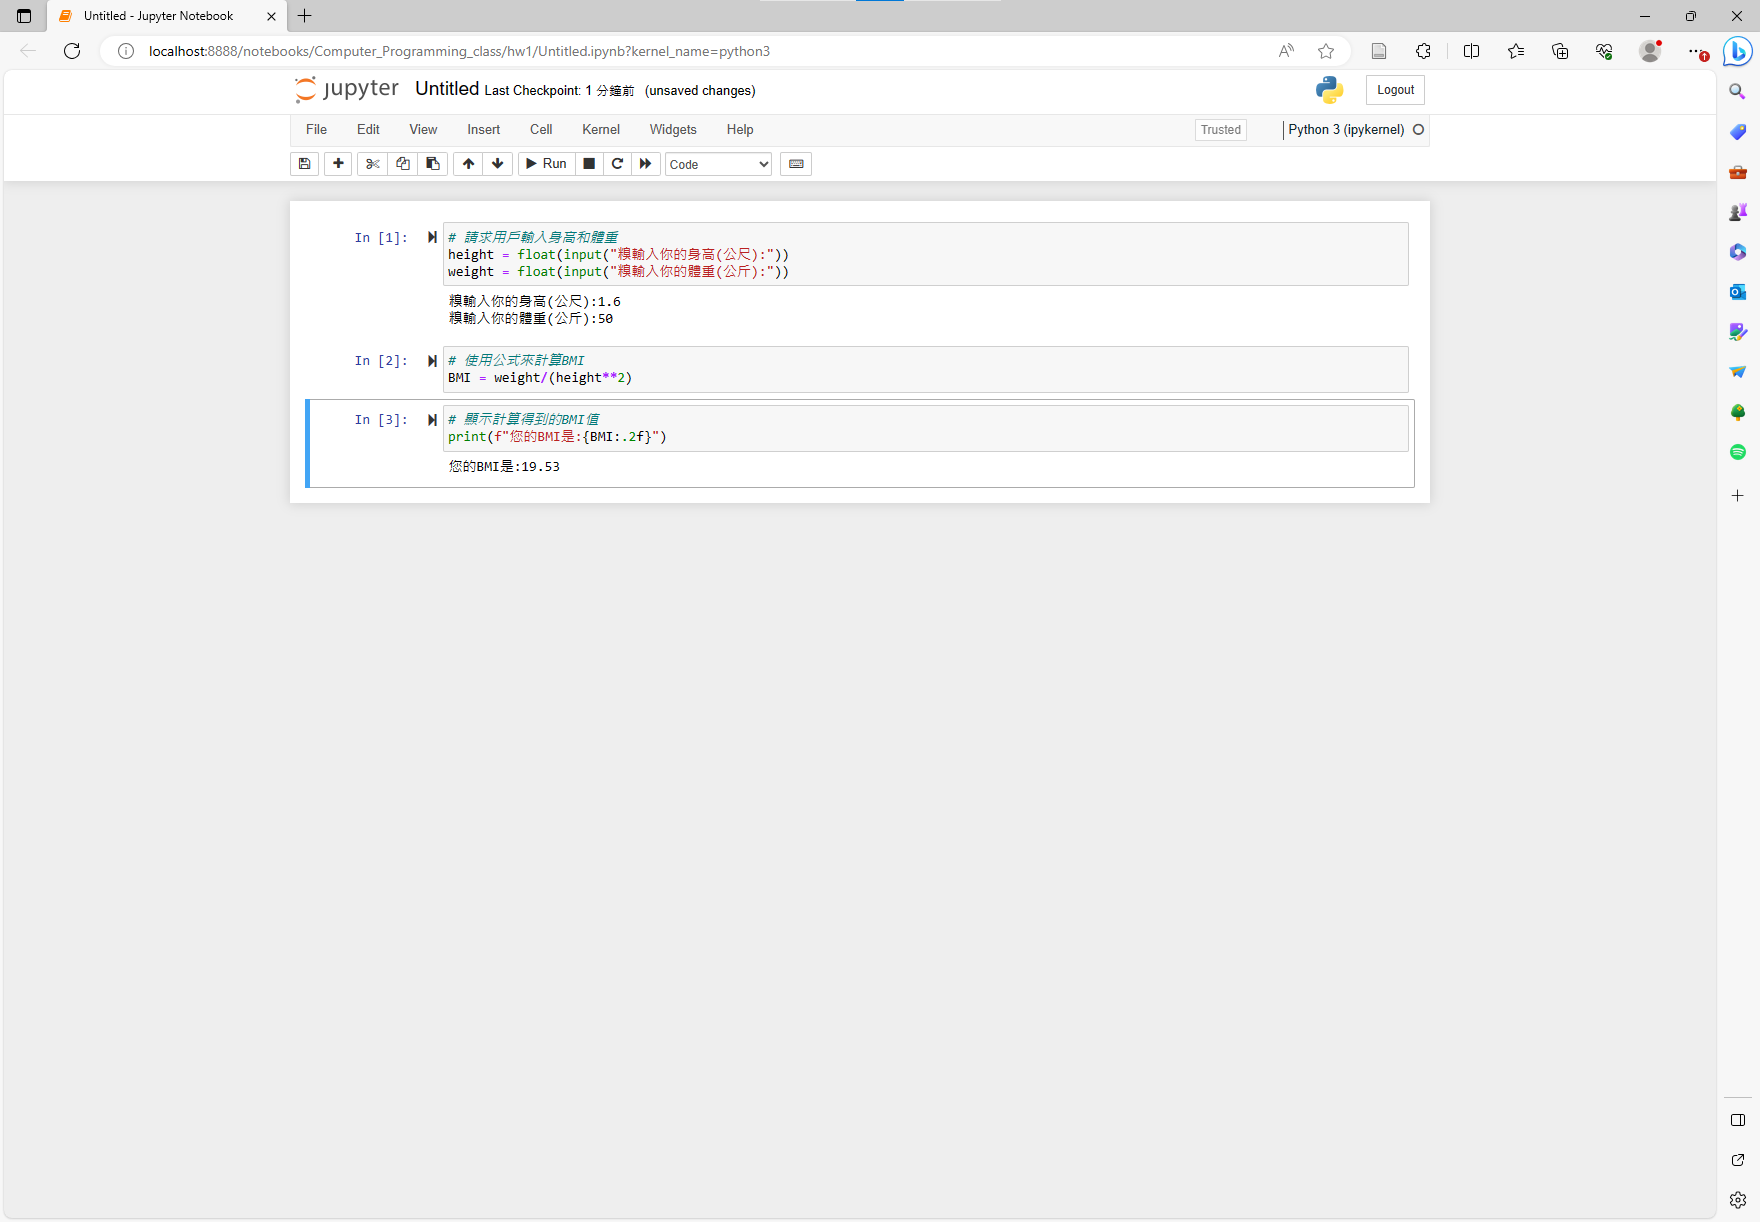
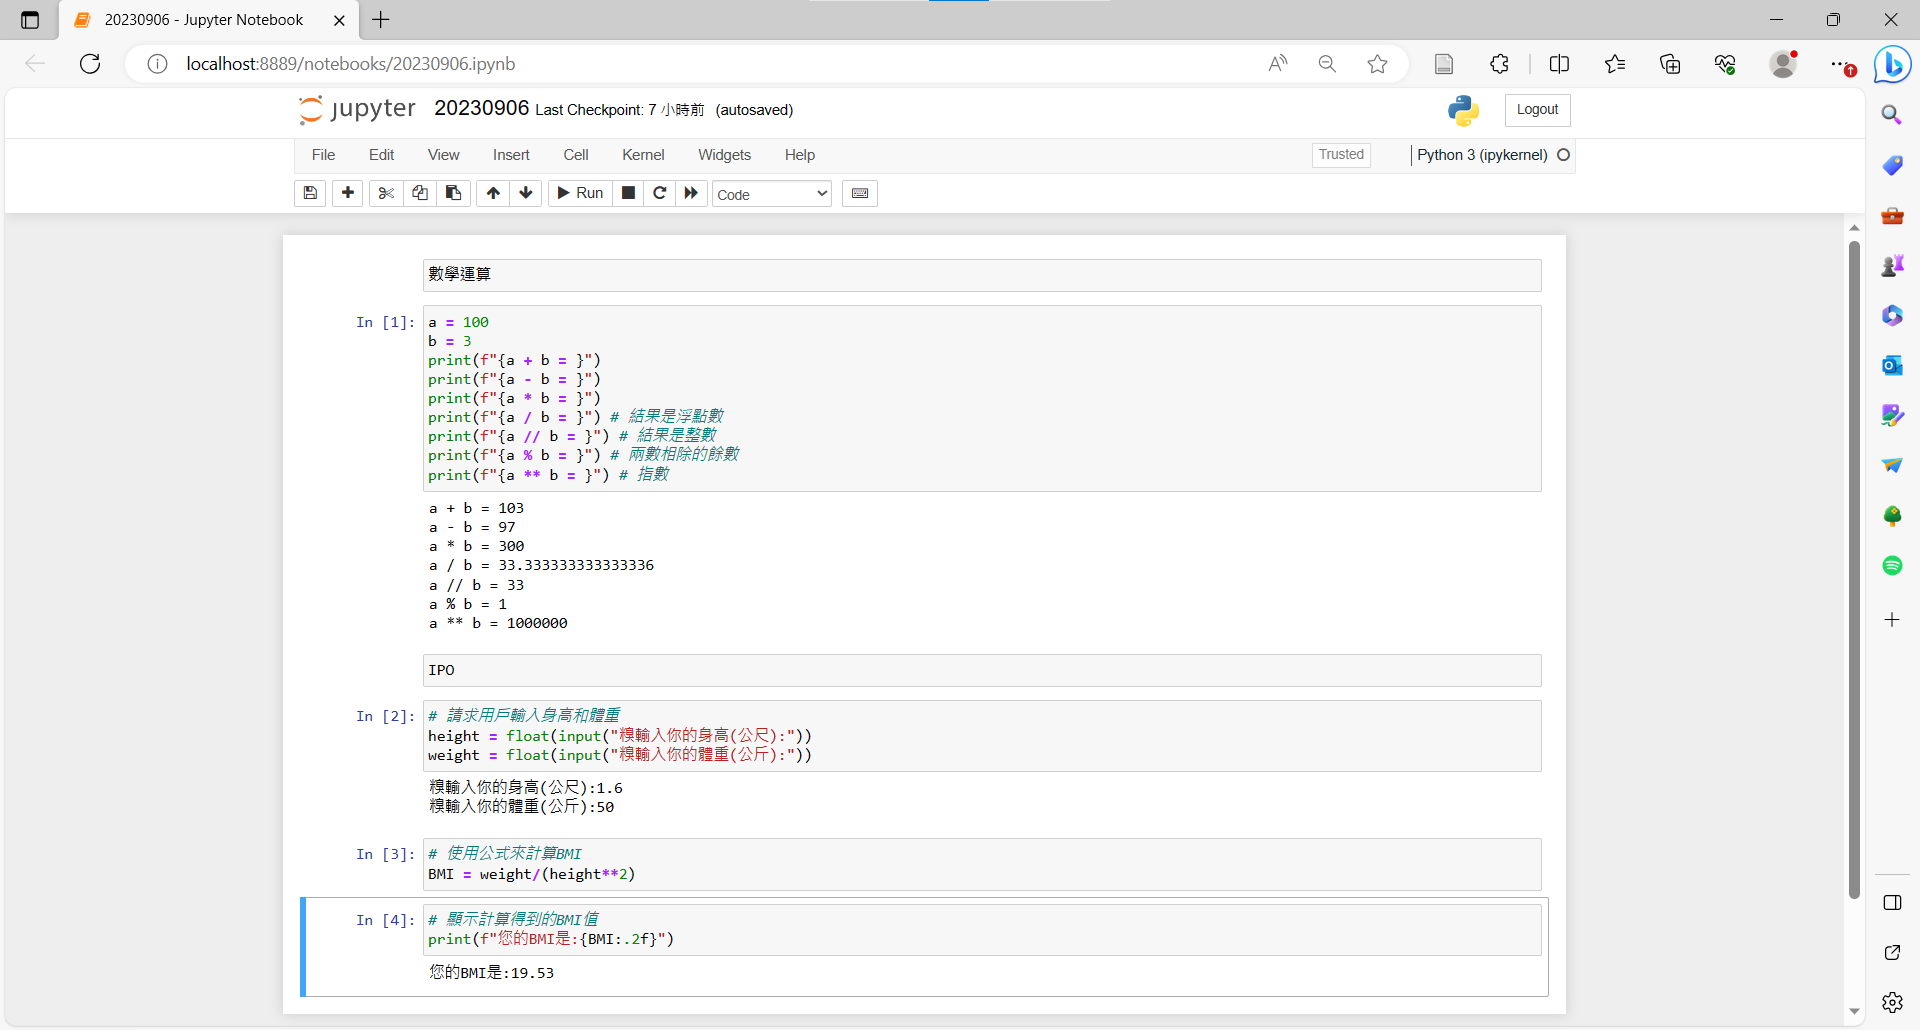
Add files via upload

diff --git a/hw1/20230906.py b/hw1/20230906.py
@@ -1,3 +1,16 @@
+#%% 數學運算
+a = 100
+b = 3
+print(f"{a + b = }")
+print(f"{a - b = }")
+print(f"{a * b = }")
+print(f"{a / b = }") # 結果是浮點數
+print(f"{a // b = }") # 結果是整數
+print(f"{a % b = }") # 兩數相除的餘數
+print(f"{a ** b = }") # 指數
+print()
+
+#%% IPO
 # 請求用戶輸入身高和體重
 height = float(input("糗輸入你的身高(公尺):"))
 weight = float(input("糗輸入你的體重(公斤):"))
@@ -7,3 +20,4 @@ BMI = weight/(height**2)
 
 # 顯示計算得到的BMI值
 print(f"您的BMI是:{BMI:.2f}")
+
